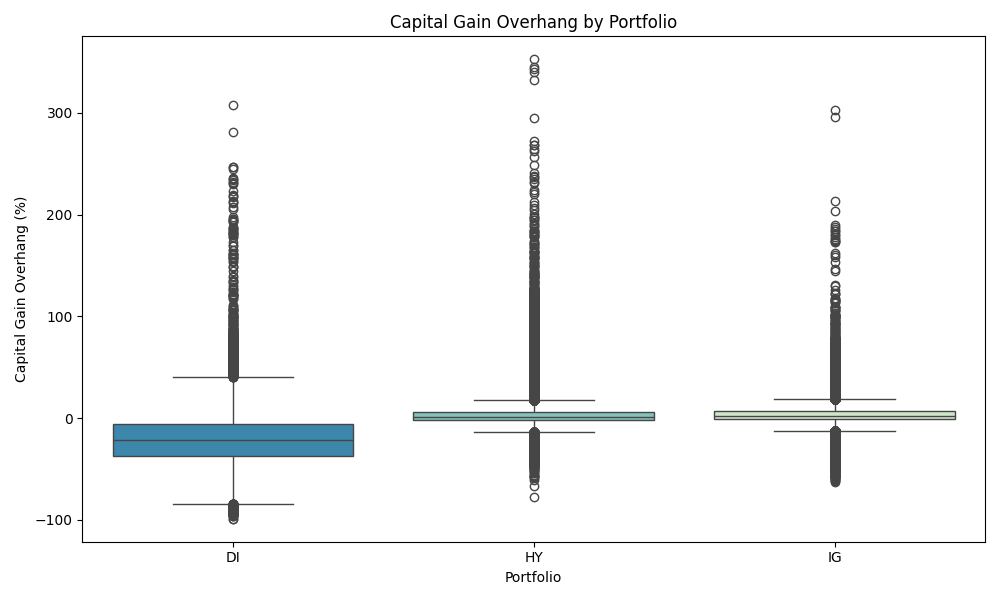
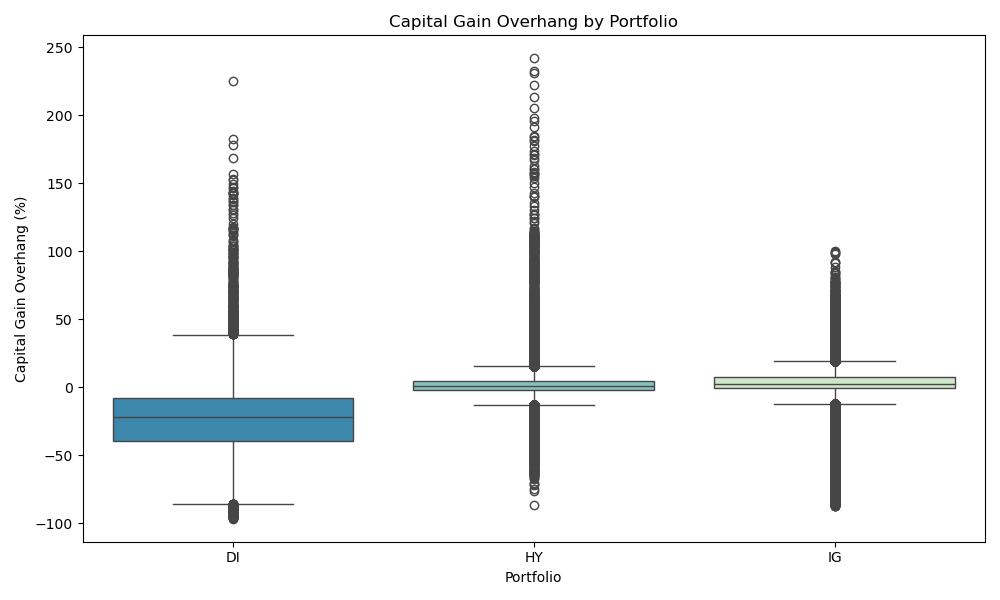
fixed solver and capital gain overhang

diff --git a/py_code/model_setup.py b/py_code/model_setup.py
@@ -15,6 +15,7 @@ import matplotlib.dates as mdates
 import matplotlib.cm as cm
 import seaborn as sns
 from scipy.stats import skew
+from datetime import datetime
 
 #Set up working directory
 project_dir = os.getcwd()   # Change to your project directory
@@ -23,8 +24,9 @@ figures_folder = project_dir + "/figures"
 
 # Importing the cleaned data
 bond_data = pd.read_csv(data_folder + "/preprocessed/bond_data.csv")
-model_data = bond_data[['eom', 'cusip', 'ret_exc', 'credit_spread_past', 'rating_class_past', 'market_value_past', 'price_eom_past']]
+model_data = bond_data[['eom', 'cusip', 'ret_exc', 'credit_spread_past', 'rating_class_past', 'market_value_past', 'price_eom', 'price_eom_past', 'offering_date']]
 model_data['eom'] = pd.to_datetime(model_data['eom'])
+model_data['offering_date'] = pd.to_datetime(model_data['offering_date'])
 model_data.to_csv("data/preprocessed/model_data.csv") #saving the smaller dataframe
 
 # ===================================================================    
@@ -266,7 +268,7 @@ def compute_effective_purchase_price_exponential_earliest(group):
     """
     group = group.sort_values('eom').copy()
     
-    effective_prices = [group.iloc[0]['price_eom_past']]
+    effective_prices = [group.iloc[0]['price_eom']]
     cgo_values = [0.0]
 
     
@@ -290,29 +292,24 @@ def compute_effective_purchase_price_exponential_earliest(group):
         
         # The i-th row in group corresponds to the 'current' date
         # The 'past_prices' are the prices from index 0..(i-1)
-        past_prices = group.iloc[:i]['price_eom_past'].values
+        past_prices = group.iloc[:i]['price_eom'].values
 
          # Apply the condition to adjust price_eom for k=0
-        #if group.iloc[0]['offering_date'] < '2002-07-31':
-            #past_prices[0] = 100
+        if group.iloc[0]['offering_date'] < datetime(2002, 7, 31):
+            past_prices[0] = 100
         
         # Weighted sum of the past prices
         effective_price = np.sum(weights * past_prices)
         effective_prices.append(effective_price)
         
         # Current price is the price at row i
-        current_price = group.iloc[i]['price_eom_past']
+        current_price = group.iloc[i]['price_eom']
         cgo = (current_price / effective_price - 1) * 100
         cgo_values.append(cgo)
     
     group['effective_price'] = effective_prices
     group['cap_gain_overhang'] = cgo_values
     return group
-
-#offering_date = pd.read_csv(data_folder + "/raw/all_wrds_data.csv")
-#offering_data = offering_date.columns.str.lower()
-#offering_date = offering_date[['eom', 'cusip', 'offering_date']]
-#model_data = model_data.merge(offering_date, on=['eom', 'cusip'], how='left')
 
 print('Applying the function group-wise by bond (cusip) ...')
 model_data = model_data.sort_values(['cusip', 'eom'])
@@ -461,67 +458,67 @@ print(median_metrics)
 # -------------------------------
 # 2. Distribution Visualization
 # -------------------------------
-# cmap = cm.get_cmap('GnBu', 5).reversed()
-# model_data_cgo = pd.read_csv(data_folder + "/preprocessed/model_data_cgo.csv")
-# model_data_cgo['eom'] = pd.to_datetime(model_data_cgo['eom'])
+cmap = cm.get_cmap('GnBu', 5).reversed()
+model_data_cgo = pd.read_csv(data_folder + "/preprocessed/model_data_cgo.csv")
+model_data_cgo['eom'] = pd.to_datetime(model_data_cgo['eom'])
 
-# # Histogram with KDE to inspect the overall distribution
-# plt.figure(figsize=(10, 6))
-# # We can pick a single color from the colormap, e.g. cmap(1)
-# sns.histplot(
-#     model_data_cgo['cap_gain_overhang'].dropna(),
-#     bins=50,
-#     kde=True,
-#     color=cmap(1)  # Using one color from the reversed colormap
-# )
-# plt.xlabel('Capital Gain Overhang (%)')
-# plt.title('Distribution of Capital Gain Overhang (using price_eom_past)')
-# plt.tight_layout()
-# plt.savefig(os.path.join(figures_folder, "cgo_distribution.png"))
-# plt.close()
+# Histogram with KDE to inspect the overall distribution
+plt.figure(figsize=(10, 6))
+# We can pick a single color from the colormap, e.g. cmap(1)
+sns.histplot(
+    model_data_cgo['cap_gain_overhang'].dropna(),
+    bins=50,
+    kde=True,
+    color=cmap(1)  # Using one color from the reversed colormap
+)
+plt.xlabel('Capital Gain Overhang (%)')
+plt.title('Distribution of Capital Gain Overhang (using price_eom_past)')
+plt.tight_layout()
+plt.savefig(os.path.join(figures_folder, "cgo_distribution.png"))
+plt.close()
 
-# # Boxplot by Portfolio to see differences across portfolios
-# unique_portfolios = sorted(model_data_cgo['portfolio'].dropna().unique())
-# palette_colors = [cmap(i+1) for i in range(len(unique_portfolios))]
+# Boxplot by Portfolio to see differences across portfolios
+unique_portfolios = sorted(model_data_cgo['portfolio'].dropna().unique())
+palette_colors = [cmap(i+1) for i in range(len(unique_portfolios))]
 
-# plt.figure(figsize=(10, 6))
-# sns.boxplot(
-#     data=model_data_cgo,
-#     x='portfolio',
-#     y='cap_gain_overhang',
-#     order=unique_portfolios,       # ensure consistent order
-#     palette=palette_colors         # use our custom palette
-# )
-# plt.title('Capital Gain Overhang by Portfolio')
-# plt.xlabel('Portfolio')
-# plt.ylabel('Capital Gain Overhang (%)')
-# plt.tight_layout()
-# plt.savefig(os.path.join(figures_folder, "cgo_boxplot_by_portfolio.png"))
-# plt.close()
+plt.figure(figsize=(10, 6))
+sns.boxplot(
+    data=model_data_cgo,
+    x='portfolio',
+    y='cap_gain_overhang',
+    order=unique_portfolios,       # ensure consistent order
+    palette=palette_colors         # use our custom palette
+)
+plt.title('Capital Gain Overhang by Portfolio')
+plt.xlabel('Portfolio')
+plt.ylabel('Capital Gain Overhang (%)')
+plt.tight_layout()
+plt.savefig(os.path.join(figures_folder, "cgo_boxplot_by_portfolio.png"))
+plt.close()
 
-# # -------------------------------
-# # 3. Time Series Visualization
-# # -------------------------------
+# -------------------------------
+# 3. Time Series Visualization
+# -------------------------------
 
-# # Calculate the average capital gain overhang for each month and portfolio.
-# portfolio_cgo = model_data_cgo.groupby(['eom', 'portfolio'])['cap_gain_overhang'].mean().reset_index()
-# unique_portfolios = sorted(portfolio_cgo['portfolio'].dropna().unique())
-# palette_colors = [cmap(i+1) for i in range(len(unique_portfolios))]
+# Calculate the average capital gain overhang for each month and portfolio.
+portfolio_cgo = model_data_cgo.groupby(['eom', 'portfolio'])['cap_gain_overhang'].mean().reset_index()
+unique_portfolios = sorted(portfolio_cgo['portfolio'].dropna().unique())
+palette_colors = [cmap(i+1) for i in range(len(unique_portfolios))]
 
-# plt.figure(figsize=(12, 6))
-# for i, portfolio in enumerate(unique_portfolios):
-#     sub_df = portfolio_cgo[portfolio_cgo['portfolio'] == portfolio]
-#     plt.plot(
-#         sub_df['eom'], sub_df['cap_gain_overhang'],
-#         marker='o',
-#         label=portfolio,
-#         color=palette_colors[i]
-#     )
-# plt.xlabel('Date (eom)')
-# plt.ylabel('Average Capital Gain Overhang (%)')
-# plt.title('Monthly Average Capital Gain Overhang by Portfolio')
-# plt.xticks(rotation=45)
-# plt.legend()
-# plt.tight_layout()
-# plt.savefig(os.path.join(figures_folder, "monthly_cgo_by_portfolio.png"))
-# plt.close()
+plt.figure(figsize=(12, 6))
+for i, portfolio in enumerate(unique_portfolios):
+    sub_df = portfolio_cgo[portfolio_cgo['portfolio'] == portfolio]
+    plt.plot(
+        sub_df['eom'], sub_df['cap_gain_overhang'],
+        marker='o',
+        label=portfolio,
+        color=palette_colors[i]
+    )
+plt.xlabel('Date (eom)')
+plt.ylabel('Average Capital Gain Overhang (%)')
+plt.title('Monthly Average Capital Gain Overhang by Portfolio')
+plt.xticks(rotation=45)
+plt.legend()
+plt.tight_layout()
+plt.savefig(os.path.join(figures_folder, "monthly_cgo_by_portfolio.png"))
+plt.close()

diff --git a/py_code/finding_S_z.py b/py_code/finding_S_z.py
@@ -84,32 +84,72 @@ thetas_df.to_csv(data_folder + '/preprocessed/thetas_df.csv') # Export for later
 # ======================================================================================================================
 print("Calculating S and zeta")
 
-def equation_vol_skew(p,*args): # Defines the equations 
-    Si, zetai = p
-    volatility, skewness = args
-    if Si <= 0:
-        return [1e6, 1e6]
-    return[(nu/(nu-2) * Si + ((2 * nu ** 2) / ((nu-2)**2 * (nu-4))) * zetai**2) ** (0.5) - volatility,
-                ((2 * zetai * sqrt(nu * (nu - 4)) /
-                (sqrt(Si) * ((2 * nu * zetai ** 2) / Si + (nu - 2) * (nu - 4)) ** (3 / 2)))
-                * (3 * (nu - 2) + (8 * nu * zetai ** 2) / (Si * (nu - 6))))- skewness]
+# Define the function for the system of equations
+def equation_system(params, nu, sigma, skew):
+    Si, zeta = params
+    eq1 = sqrt((nu / (nu - 2)) * Si + (2 * nu**2) / ((nu - 2)**2 * (nu - 4)) * zeta**2) - sigma
+    eq2 = ((2 * zeta * sqrt(nu * (nu - 4))) /
+           (sqrt(Si) * ((2 * nu * zeta**2) / Si + (nu - 2) * (nu - 4))**(3 / 2))) * \
+          (3 * (nu - 2) + (8 * nu * zeta**2) / (Si * (nu - 6))) - skew
+    return [eq1, eq2]
+
+# Define a wrapper function to solve the system given nu, sigma, and skew
+def solve_equations(nu, sigma, skew):
+    # Initial guesses for Si and zeta
+    initial_guess = [0.001, 0.001]
+    
+    # Solve the equations using fsolve
+    solution = fsolve(equation_system, initial_guess, args=(nu, sigma, skew))
+    
+    # Return the solution as a tuple (Si, zeta)
+    return solution
+
+# Initialize lists to store Si and zeta values
+Si_values = []
+zeta_values = []
+
+# Compute Si and zeta for each row
+for index, row in average_metrics.iterrows():
+    sigma = row["volatility"]
+    skewR = row["skewness"]
+    Si, zeta = solve_equations(nu, sigma, skewR)
+    Si_values.append(Si)
+    zeta_values.append(zeta)
+
+# Add the new columns to the dataframe
+average_metrics["Si"] = Si_values
+average_metrics["zeta"] = zeta_values
+
+# Create the updated dataframe
+average_metrics_updated = average_metrics.copy()
+print(average_metrics_updated)
+
+# def equation_vol_skew(p,*args): # Defines the equations 
+#     Si, zetai = p
+#     volatility, skewness = args
+#     if Si <= 0:
+#         return [1e6, 1e6]
+#     return[(nu/(nu-2) * Si + ((2 * nu ** 2) / ((nu-2)**2 * (nu-4))) * zetai**2) ** (0.5) - volatility,
+#                 ((2 * zetai * sqrt(nu * (nu - 4)) /
+#                 (sqrt(Si) * ((2 * nu * zetai ** 2) / Si + (nu - 2) * (nu - 4)) ** (3 / 2)))
+#                 * (3 * (nu - 2) + (8 * nu * zetai ** 2) / (Si * (nu - 6))))- skewness]
 
 
-def fsolve_si_zetai(volatility, skewness): # Attempts to find values of Si and zetai that satisfy equation_std_skew.
-    Si, zetai = fsolve(equation_vol_skew,(0.2, 0.2),args=(volatility, skewness))
-    # return {'Si':Si, 'zetai':zetai}
-    return Si, zetai
+# def fsolve_si_zetai(volatility, skewness): # Attempts to find values of Si and zetai that satisfy equation_std_skew.
+#     Si, zetai = fsolve(equation_vol_skew,(0.2, 0.2),args=(volatility, skewness))
+#     # return {'Si':Si, 'zetai':zetai}
+#     return Si, zetai
 
 
-start = timeit.default_timer()
-average_metrics['Si'], average_metrics['zetai'] = zip(*average_metrics.apply(lambda x: fsolve_si_zetai(x.volatility, x.skewness), axis=1))
+# start = timeit.default_timer()
+# average_metrics['Si'], average_metrics['zetai'] = zip(*average_metrics.apply(lambda x: fsolve_si_zetai(x.volatility, x.skewness), axis=1))
 
-stop = timeit.default_timer()
-execution_time = stop - start
-print(f"Program Executed in {execution_time} seconds")  # Returns time in seconds
+# stop = timeit.default_timer()
+# execution_time = stop - start
+# print(f"Program Executed in {execution_time} seconds")  # Returns time in seconds
 
-average_metrics.to_csv(data_folder + '/preprocessed/average_metrics_updated.csv', index = False) # Export for later use
-print("done solving S and zetai")
+# average_metrics.to_csv(data_folder + '/preprocessed/average_metrics_updated.csv', index = False) # Export for later use
+# print("done solving S and zetai")
 
 
 # print("Calculating S and zeta")

diff --git a/py_code/replica_code.py b/py_code/replica_code.py
@@ -38,7 +38,7 @@ from scipy.special import kv
 # Directory set up
 project_dir = os.getcwd() # Change to your project directory
 data_folder = project_dir + "/data"
-os.chdir(project_dir + "/_temp")
+os.chdir(project_dir + "_temp")
 
 
 #%% Set parameters
@@ -117,3 +117,4 @@ print("Program Executed in "+str(execution_time)) # It returns time in seconds
 
 momr_std_skew.to_csv(data_folder + '/momr_avg_std_skew_Si_xi_all.csv') # Export to allow julia to read
 print("done solving S and xi")
+print(momr_std_skew.head())

diff --git a/py_code/dataset.py b/py_code/dataset.py
@@ -58,7 +58,7 @@ bond_descriptive_data = wrds_data[wrds_data['eom'] <= "2021-11-30"]
 columns_to_keep_descriptive = [
     'eom', 'cusip', 'bond_type', 'size', 'amount_outstanding', 'coupon', 
     'rating_num', 'rating_cat', 'rating_class', 'wrds_yield', 'price_eom', 
-    'ret_eom', 'tmt', 'duration'
+    'ret_eom', 'tmt', 'duration', 'offering_date'
 ]
 bond_descriptive_data_subset = bond_descriptive_data[columns_to_keep_descriptive]
 
